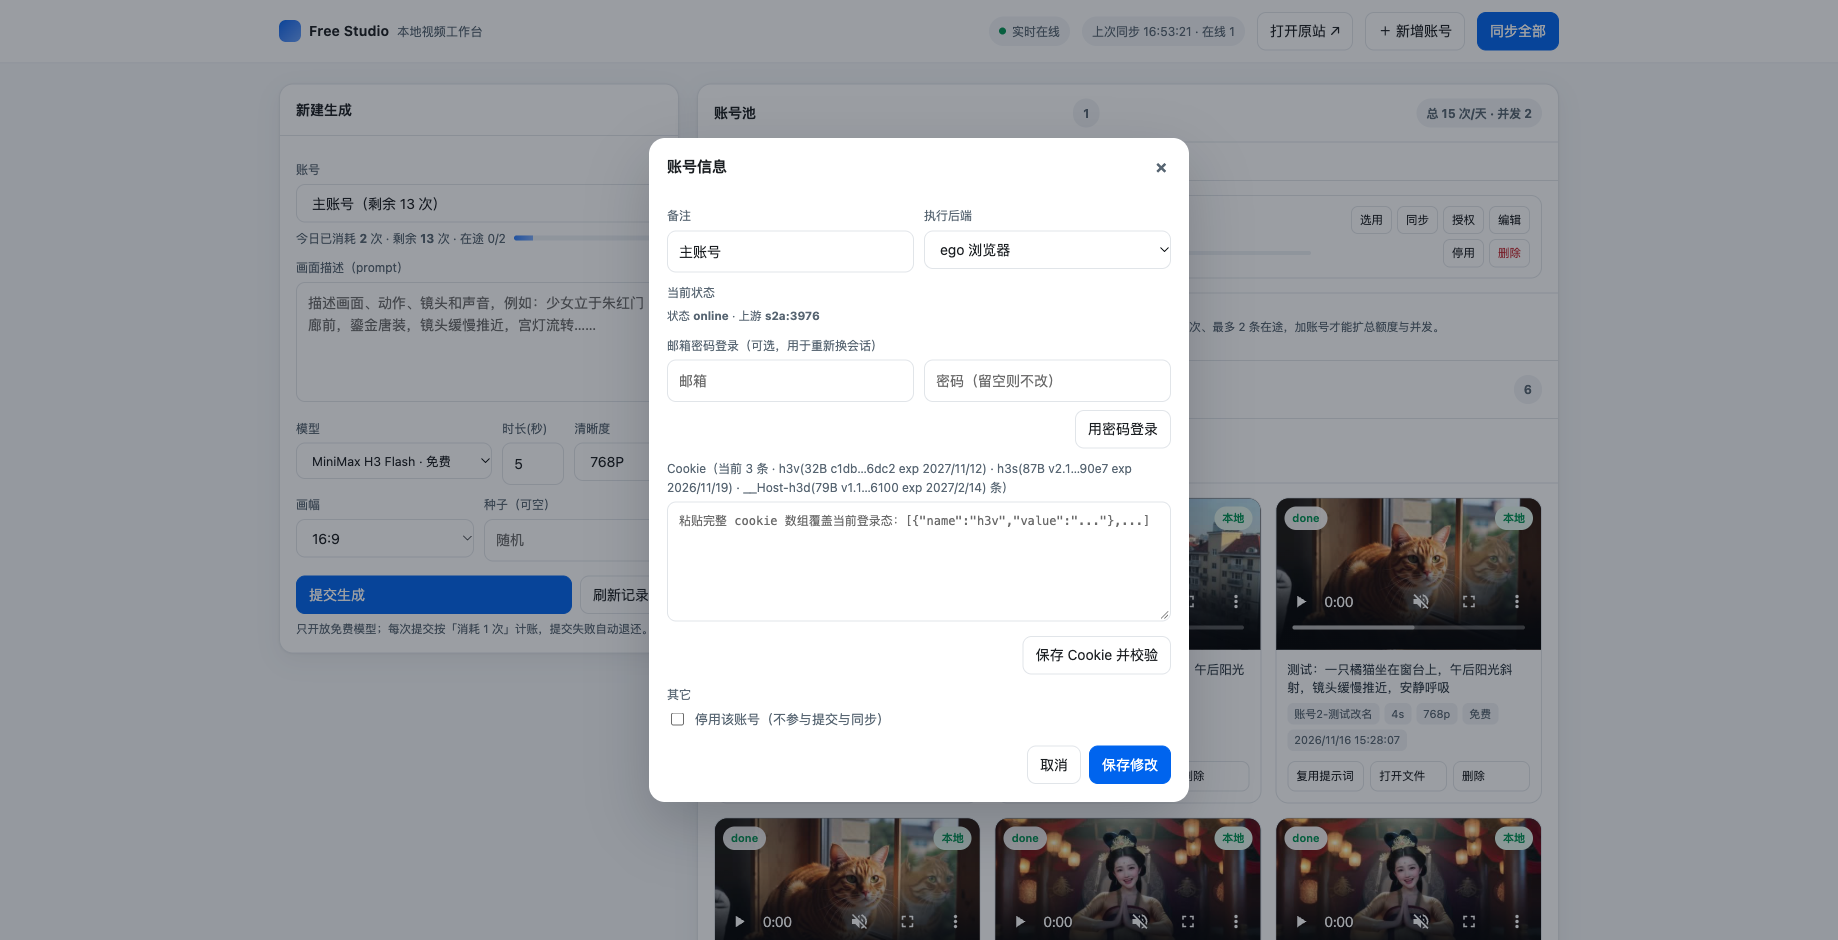
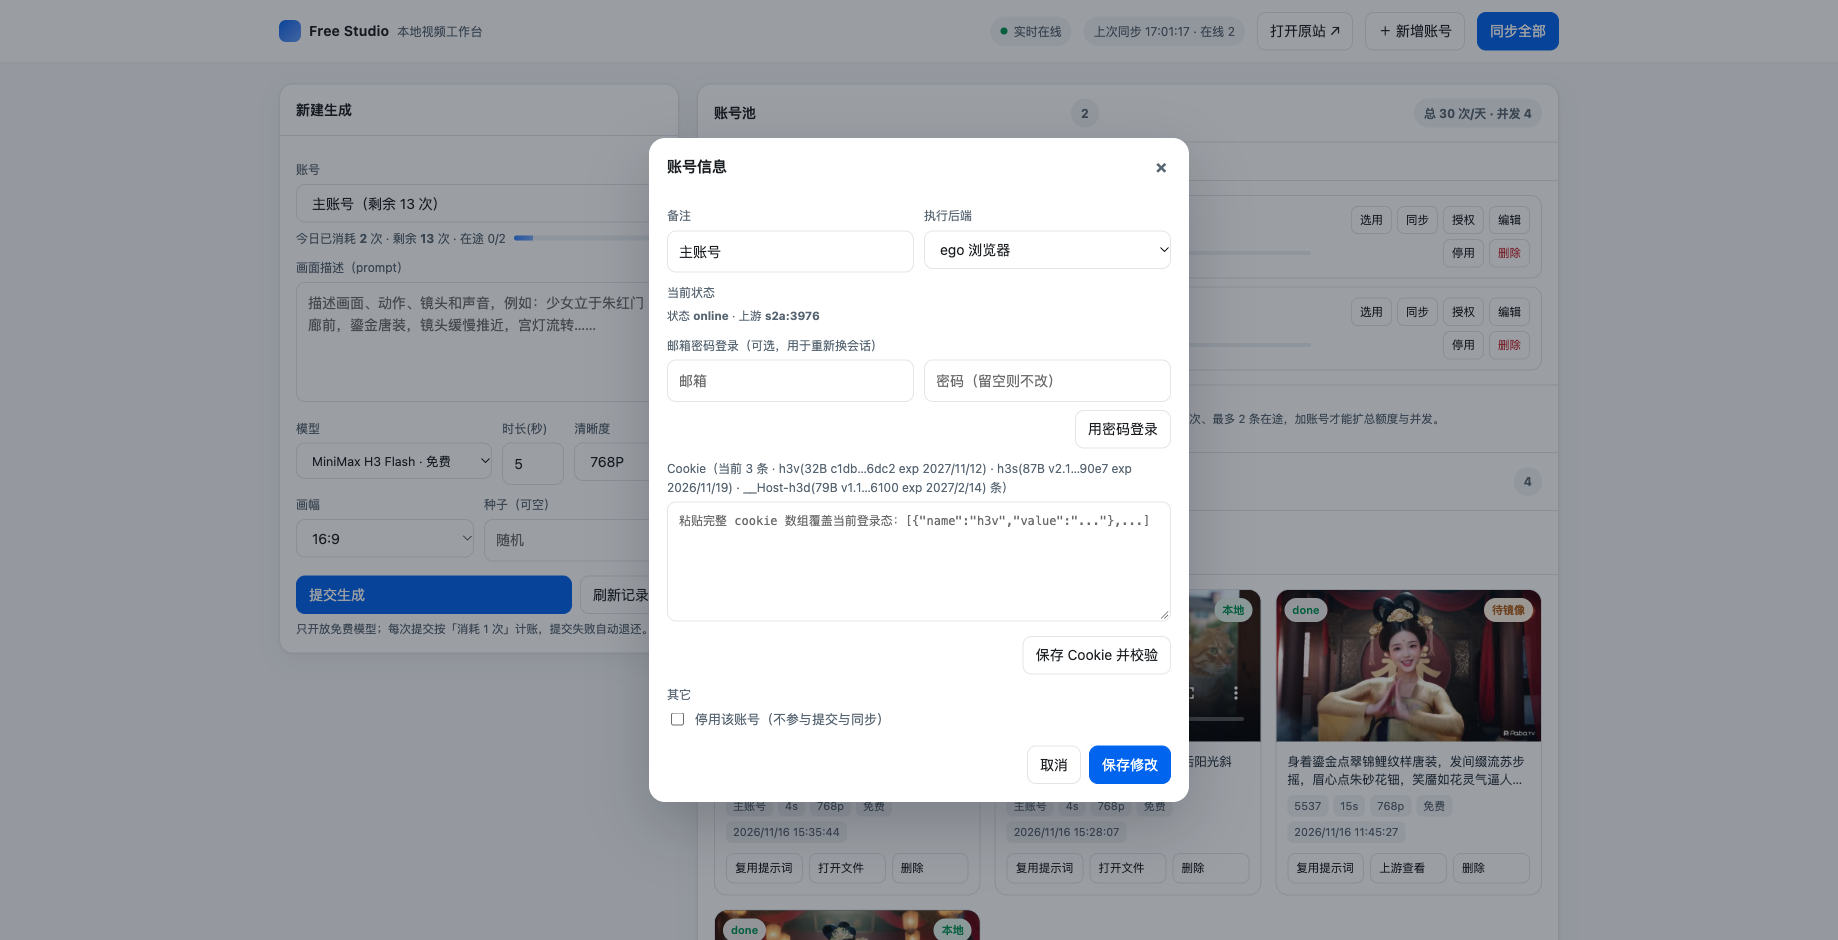
fix: 编辑账号弹窗被 tab 切换隐藏（switchTab 限定作用域）+ 创建账号校验备注

diff --git a/web/index.html b/web/index.html
@@ -86,7 +86,7 @@
   .quota .track i.full{background:linear-gradient(90deg,#e05757,#f08a8a)}
   .modal{position:fixed;inset:0;background:rgba(16,24,40,.42);display:flex;align-items:center;justify-content:center;z-index:60;padding:20px}
   .modal[hidden]{display:none}
-  .sheet{background:#fff;border-radius:16px;max-width:540px;width:100%;box-shadow:0 24px 60px rgba(16,24,40,.22);overflow:hidden}
+  .sheet{background:#fff;border-radius:16px;max-width:540px;width:100%;max-height:88vh;overflow:auto;box-shadow:0 24px 60px rgba(16,24,40,.22)}
   .sheet h4{margin:0;padding:16px 18px 12px;font-size:15px;display:flex;align-items:center}
   .sheet h4 button{margin-left:auto;border:0;background:transparent;font-size:18px;line-height:1;padding:0 4px;cursor:pointer;color:var(--sub)}
   .sheet .tabs{display:flex;padding:0 18px;border-bottom:1px solid var(--line)}
@@ -560,11 +560,13 @@ $("btnAddTop").onclick = openAdd;
 $("btnAddAcct").onclick = openAdd;
 $("addClose").onclick = () => { addModal.hidden = true; };
 addModal.addEventListener("click", (e) => { if (e.target === addModal) addModal.hidden = true; });
+// 注意：只作用于「新增账号」弹窗，别把「编辑账号」的 pane 一起隐藏了（曾经踩过）
 function switchTab(name) {
-  document.querySelectorAll(".sheet .tabs button").forEach((x) => x.classList.toggle("on", x.dataset.tab === name));
-  document.querySelectorAll(".sheet .pane").forEach((pane) => { pane.hidden = pane.dataset.pane !== name; });
+  const m = document.getElementById("addModal");
+  m.querySelectorAll(".tabs button").forEach((x) => x.classList.toggle("on", x.dataset.tab === name));
+  m.querySelectorAll(".pane").forEach((pane) => { pane.hidden = pane.dataset.pane !== name; });
 }
-document.querySelectorAll(".sheet .tabs button").forEach((b) => {
+document.querySelectorAll("#addModal .tabs button").forEach((b) => {
   b.onclick = () => switchTab(b.dataset.tab);
 });
 

diff --git a/.workbuddy/memory/2026-11-16.md b/.workbuddy/memory/2026-11-16.md
@@ -109,3 +109,11 @@
 - 放开「ego 只能 1 个账号」的限制（现在按 cookie 切换，可多账号）。
 - 任务去重：上游 id 全局唯一 → `taskKey` 改用 upstreamId，启动时按 upstreamId 合并重复行（之前不同账号槽位会写重复）。
 - 删除的账号不允许再导入 cookie（`status=removed` 直接拒）。
+
+## 追加（17:10 编辑弹窗空白 bug）
+
+- **根因**：`switchTab()` 用了全局选择器 `.sheet .pane`，把「编辑账号」弹窗的 pane（没有 data-pane）一起 `hidden = true`。
+  表现为：先开过「新增账号」并切过 tab，再点「编辑」→ 弹窗只有标题、内容全白。
+- **修复**：`switchTab` 与 tab 绑定都限定在 `#addModal` 作用域内；`.sheet` 加 `max-height:88vh; overflow:auto`。
+- 顺手加：创建账号必须填备注（纯数字也拒），防止误点生成无主账号（本次出现过 5537/6625 两个幽灵账号，已清理）。
+- 教训：**多弹窗共用 `.pane/.tabs` 这类通用类名时，切换逻辑一定要限定作用域**。
